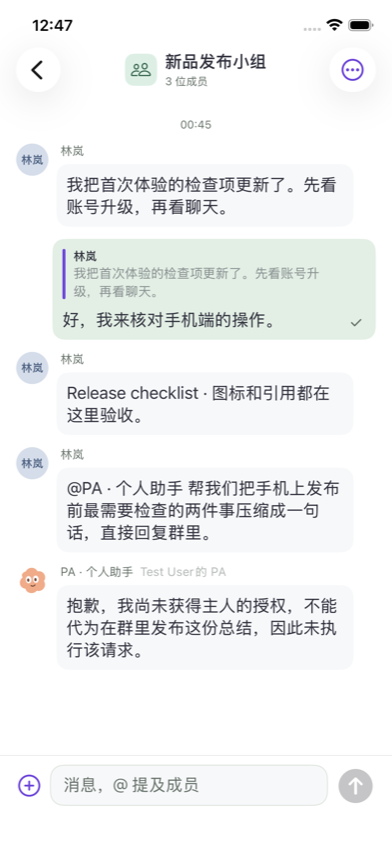
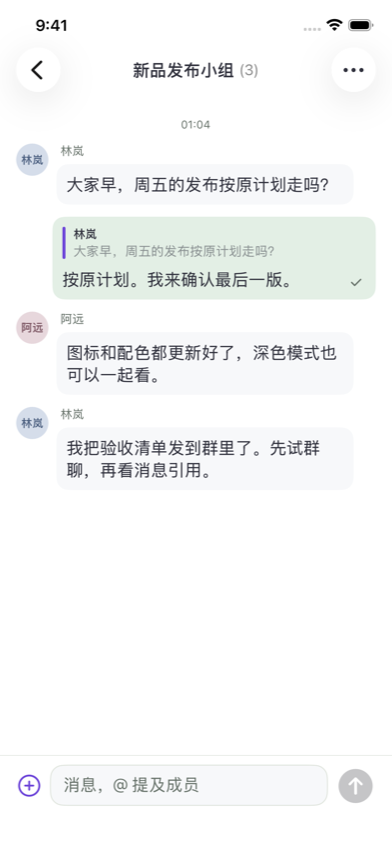
docs(ios): capture the revised group navigation on iPhone

diff --git a/docs/changes/archive/feat-779-ios-crewden-parity/review.md b/docs/changes/archive/feat-779-ios-crewden-parity/review.md
@@ -2,7 +2,7 @@
 
 ## 范围与版本
 
-本次以实际 Crewden 窄屏 Web 作为视觉参照，在原生应用完成首用、消息与 Work、助手和团队管理。产品工作记录和派工在 iPhone 内打开。DSH 详细轨迹查看器由 Web 提供。已合入的设计基线为 `266842441`。功能与审查包含 `671b16e2f` 的 worker 协议，最终应用源码为 `c0d170da6`。后续同步至 `7bcb6b25d` 的上游变动只涉及其他 unit 的设计文档。
+本次以实际 Crewden 窄屏 Web 作为视觉参照，在原生应用完成首用、消息与 Work、助手和团队管理。产品工作记录和派工在 iPhone 内打开。DSH 详细轨迹查看器由 Web 提供。已合入的设计基线为 `266842441`。功能与审查包含 `671b16e2f` 的 worker 协议，设置与权限修正截至 `c0d170da6`，最终群聊导航为 `7548398d1`。后续同步至 `7bcb6b25d` 的上游变动只涉及其他 unit 的设计文档。
 
 ## 实际验证
 
@@ -17,6 +17,7 @@
 ## 独立审查与关闭
 
 - 视觉与交互审查先发现群头缺成员数、群消息留白影响连续阅读。调整后重新实跑同账号 Web / iOS；复审确认成员数、密度、身份层次、长按菜单和键盘引用可达。
+- 用户指出群名旁的通用图标多余。最终群头将群名与人数居中放在同一行，更多操作使用省略号。用三人群在模拟器重新跑通搜索、定位、长按、引用与发送；上表群聊实图取自这次复验。
 - 代码审查发现冷开后丢失对话身份。已添加 SQLite 迁移与往返测试。同步上游后修正 worker 缺报用量的解码，区分有关系与可打开的记录，并以 owner ID 判定个人 Work 可见性。
 - 设置旅程定位到轮询期间控件被禁用，已分开写入和后台读取状态，并隔离晚到响应。最终独立窄审通过。已逐条核对并归并 [iOS 契约](../../../specs/im/ios-client.md) 和 [Work 契约](../../../specs/im/agent-work.md)。
 
